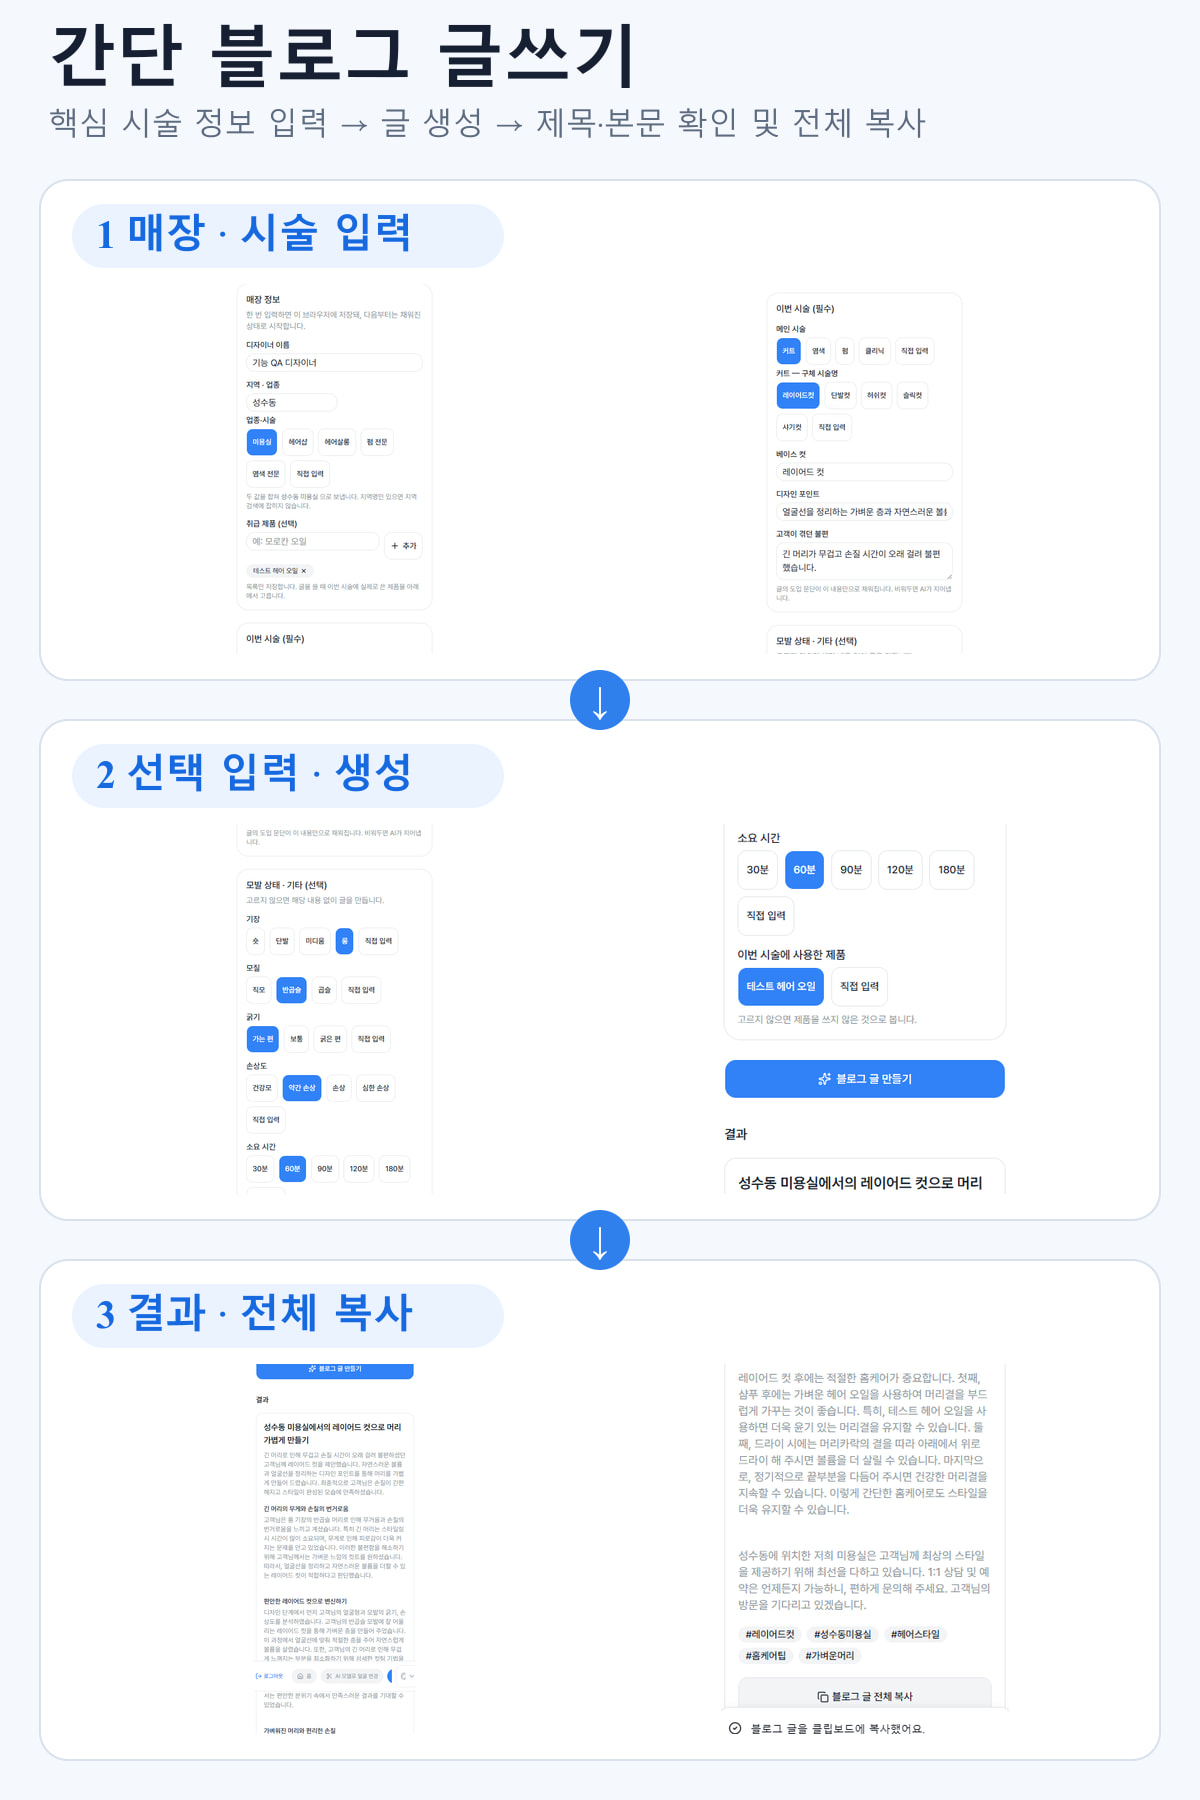
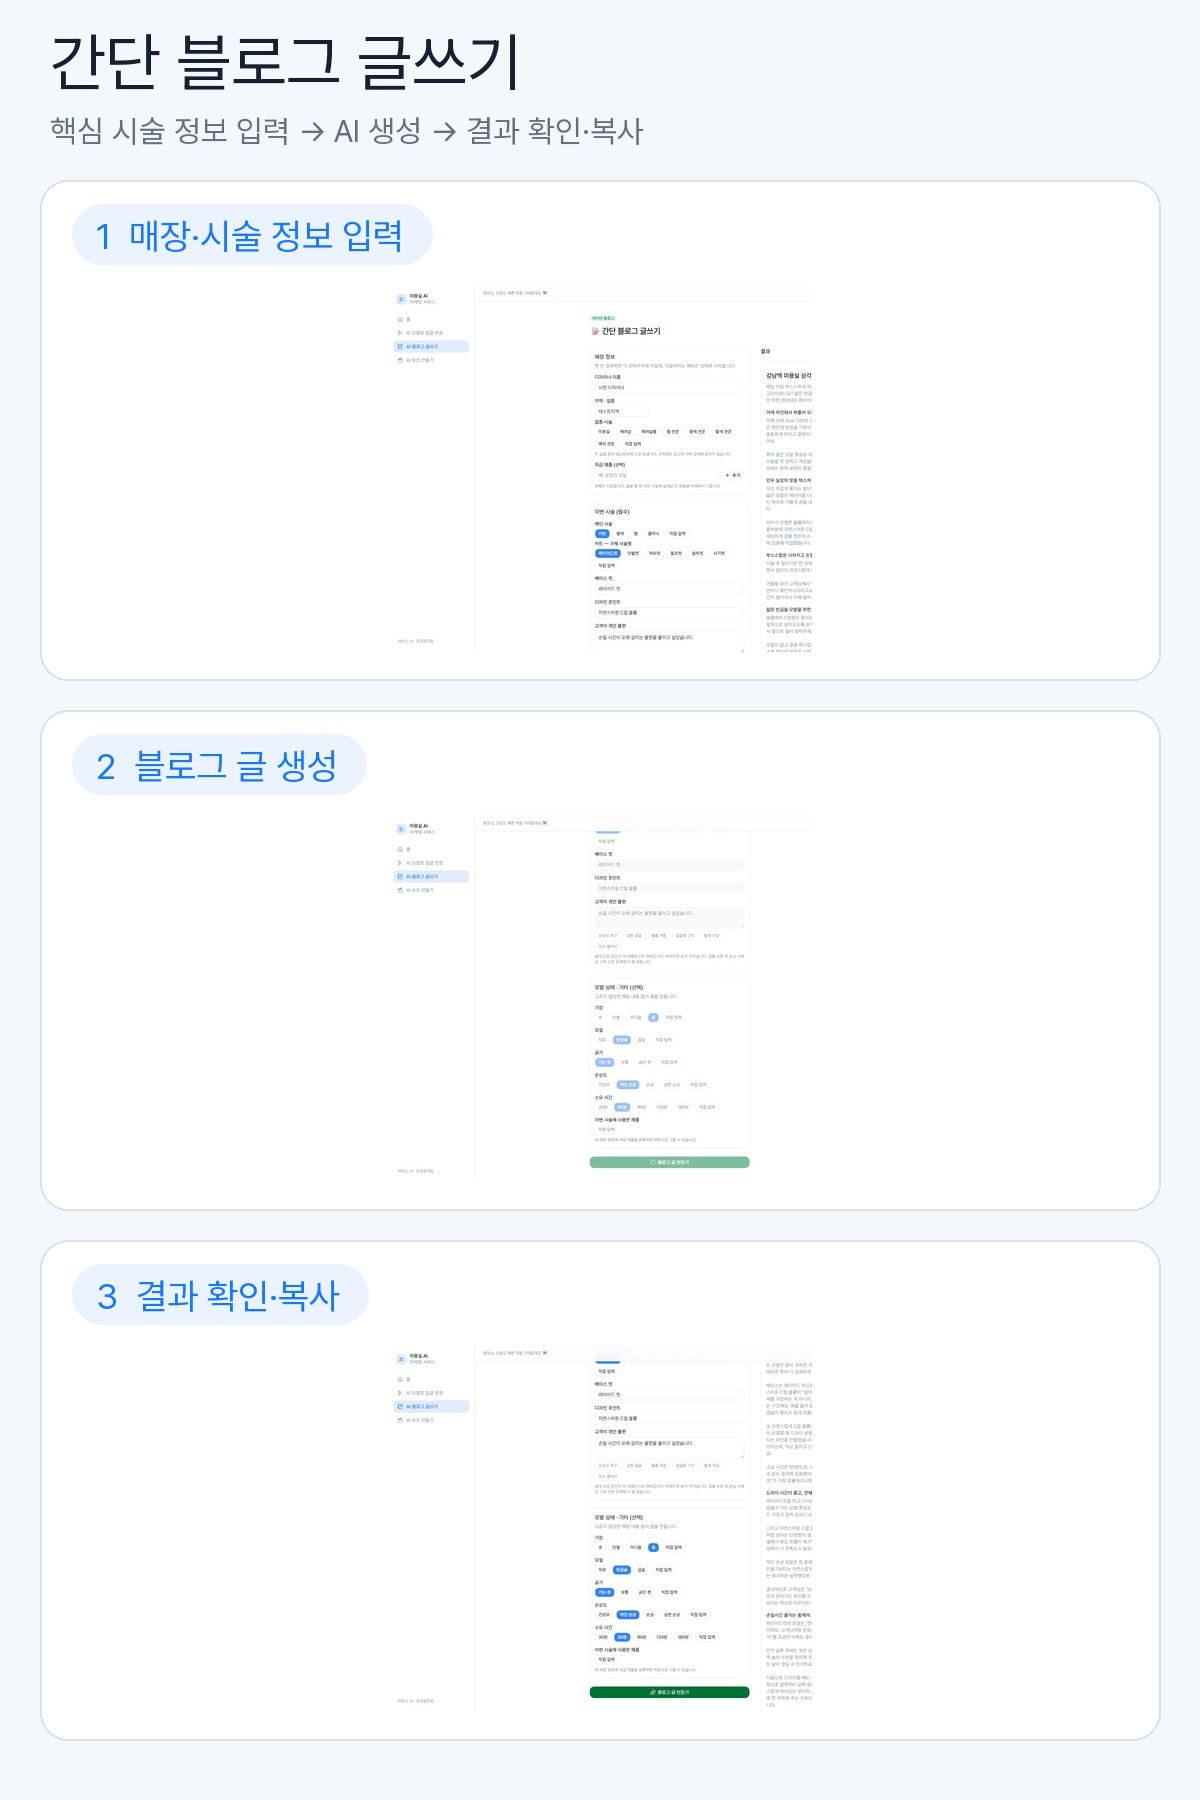
docs: refresh README visuals from deployed site

diff --git a/README.md b/README.md
@@ -15,6 +15,8 @@
   <img alt="Caddy" src="https://img.shields.io/badge/Caddy-1F88C0?style=for-the-badge&logo=caddy&logoColor=white">
 </p>
 
+[![SalonCutAI 메인 화면](./docs/assets/readme/hero-home.jpg)](https://saloncut-ai.duckdns.org)
+
 **라이브 데모**: https://saloncut-ai.duckdns.org (프로젝트 운영 기간 동안 열려 있습니다)
 
 ## 목차
@@ -41,7 +43,7 @@
 
 ### 헤어 모델 만들기
 
-![헤어 모델 만들기 원본·결과 비교 예시](./docs/assets/readme/mvp-face-swap.jpg)
+![지정 시술 사진으로 얼굴을 변경하고 3규격으로 저장하는 흐름 예시](./docs/assets/readme/mvp-face-swap.jpg)
 
 ### 간단 블로그 글쓰기
 
